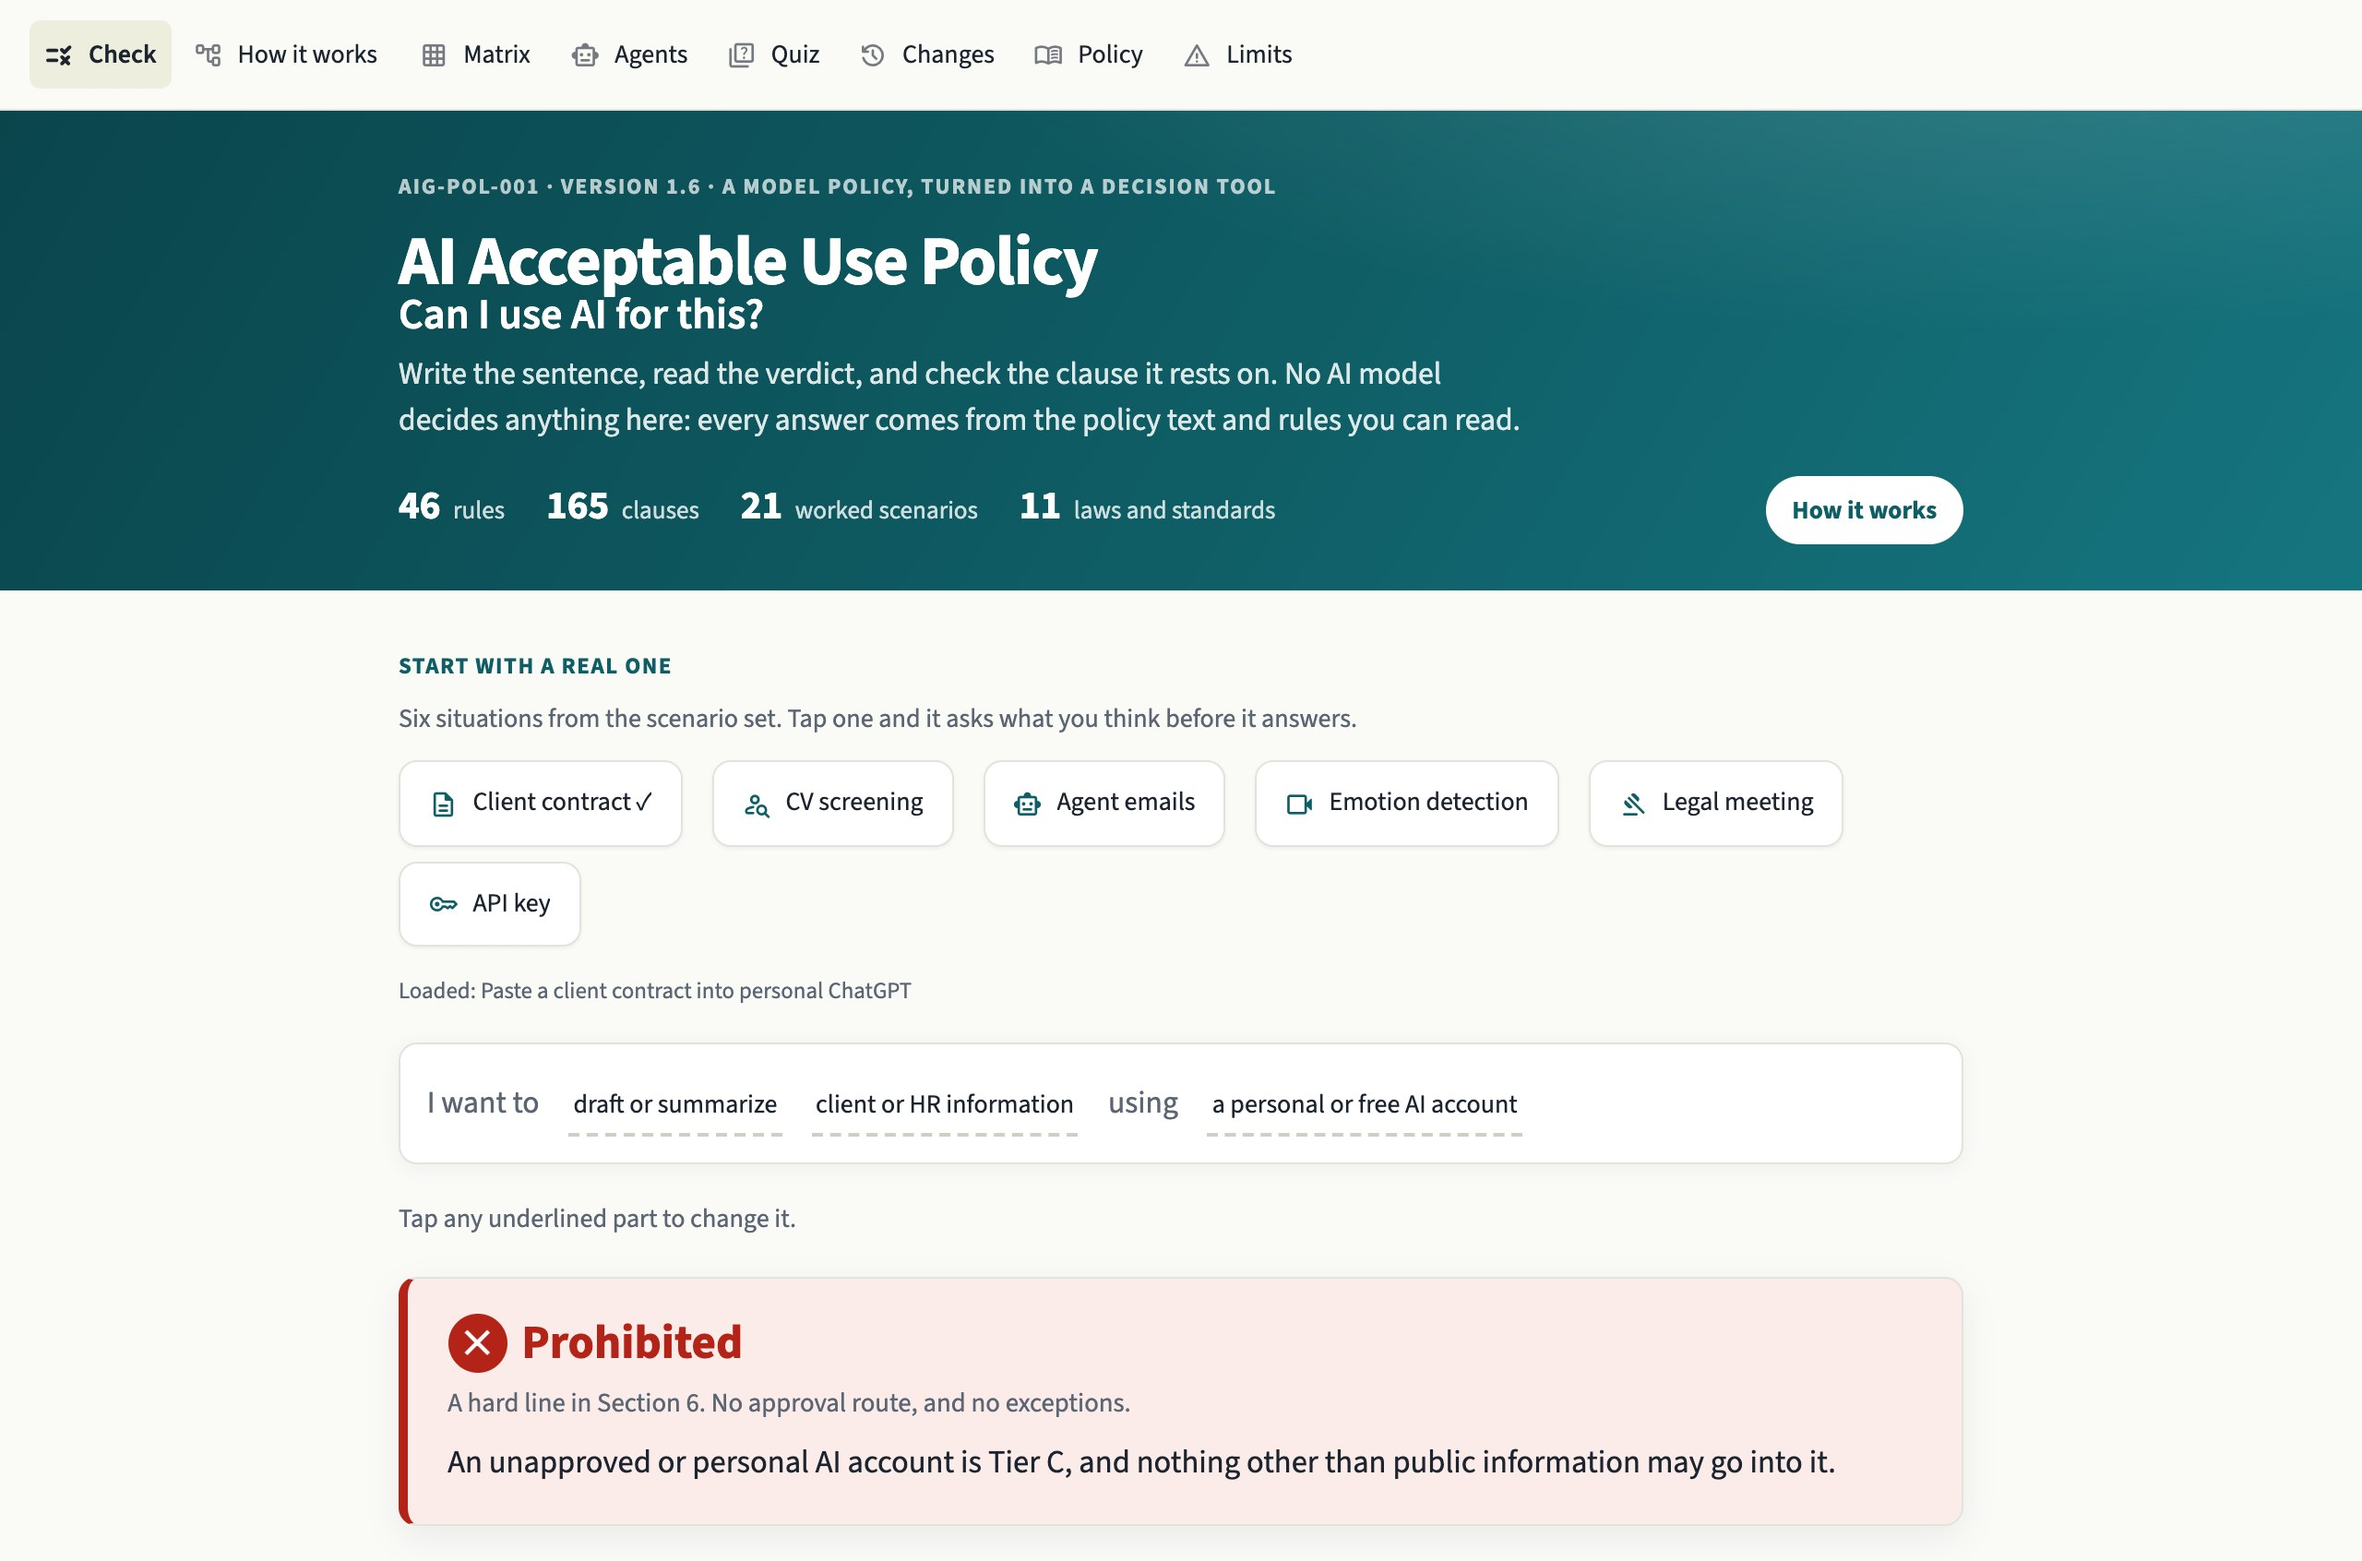
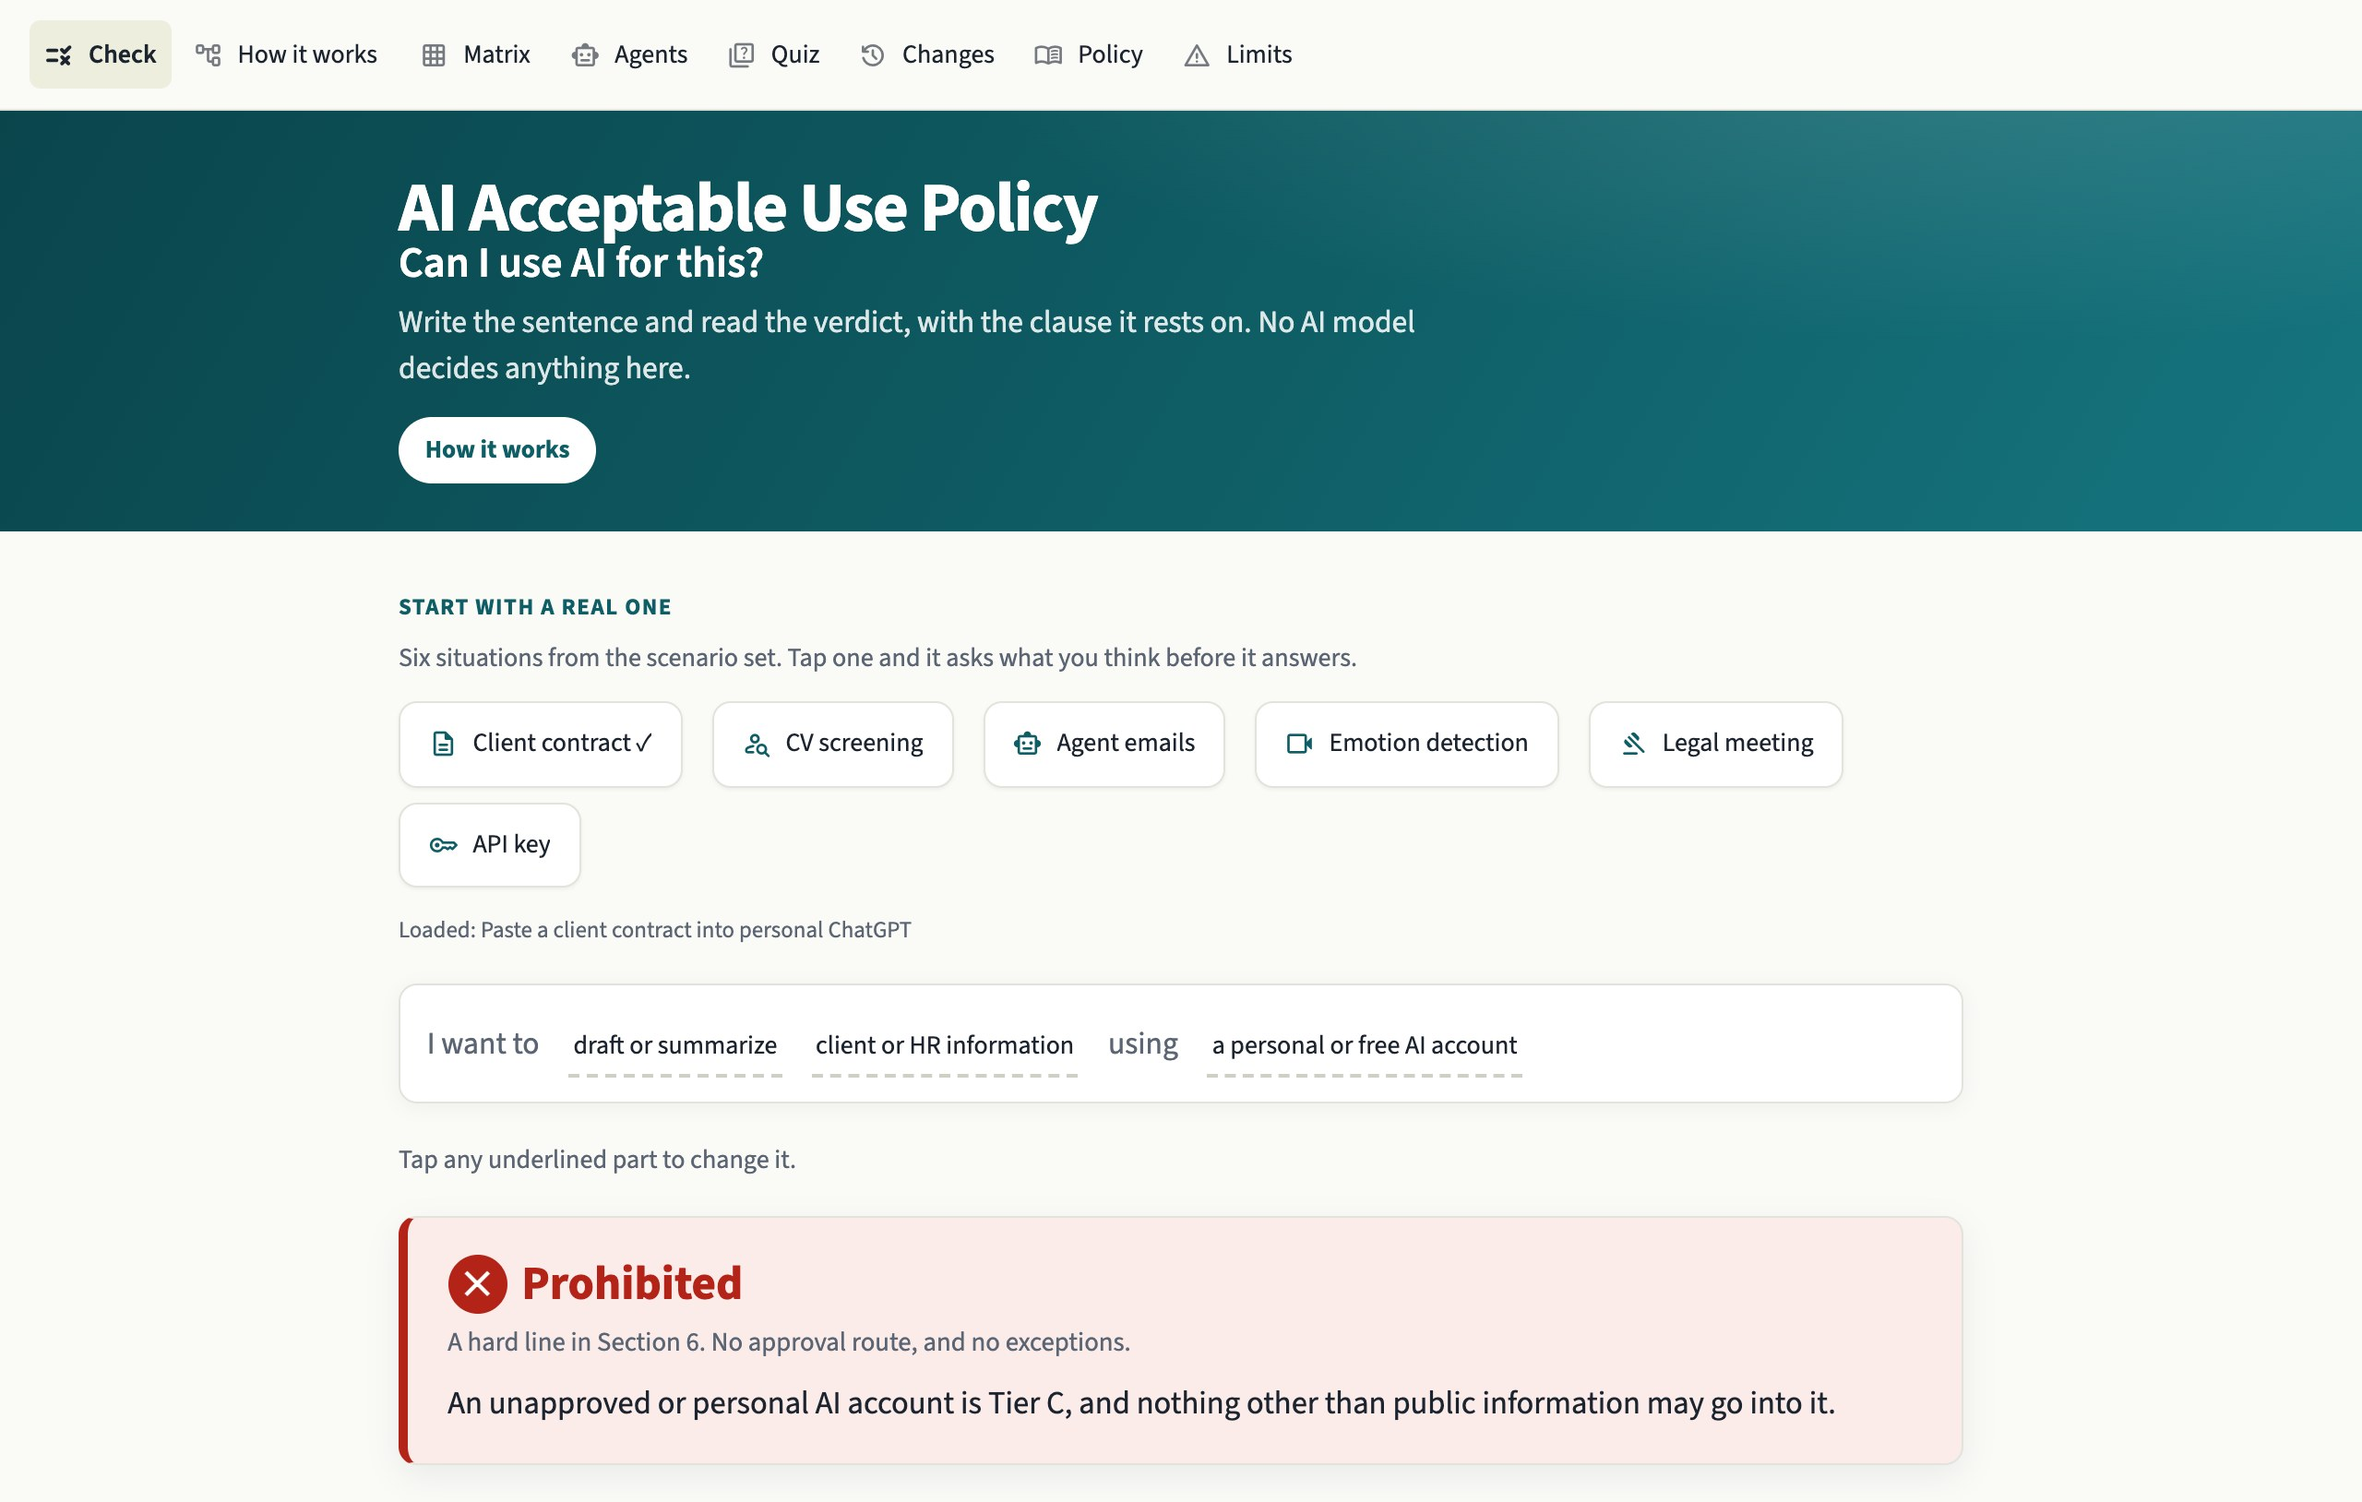
Trim the hero to the policy, the question and one sentence
The band still read as crowded: a document number and version line,
a strapline, a two-sentence lede and a row of four figures before the
link. Now it is the title, the question, one sentence and the How it
works button. The figures stay on How it works, where the README
already sends the reader for them.

A smoke test pins the band to that shape, and the first README
screenshot is regenerated.

diff --git a/app/styles/app.css b/app/styles/app.css
@@ -799,9 +799,9 @@ div[data-testid="stExpander"] details {
 
 /* The landing page used to open on a plain heading in a narrow column of
    off-white, which read as a form. The band says what kind of thing this is
-   before the first tap: the question, the promise, and three numbers that
-   make the promise checkable. It bleeds to the viewport edges while its
-   text stays on the column, so the page keeps one reading width. */
+   before the first tap: the policy, the question and one sentence of
+   promise. It bleeds to the viewport edges while its text stays on the
+   column, so the page keeps one reading width. */
 .st-key-cu_hero {
   width: 100vw;
   max-width: 100vw;
@@ -824,32 +824,17 @@ div[data-testid="stExpander"] details {
 .st-key-cu_hero [data-testid="stMarkdownContainer"] h1 a { color: inherit; }
 
 .cu-hero__lede {
-  max-width: 38rem;
-  margin: 0.3rem 0 1rem;
+  max-width: 36rem;
+  margin: 0.3rem 0 0.9rem;
   font-size: 1.05rem;
   line-height: 1.5;
   color: rgba(255, 255, 255, 0.86);
 }
 
-.cu-hero__figures {
-  display: flex;
-  flex-wrap: wrap;
-  align-items: baseline;
-  gap: 0.3rem 1.4rem;
-  font-size: 0.85rem;
-  color: rgba(255, 255, 255, 0.8);
-}
-
-.cu-hero__figures strong {
-  font-size: 1.35rem;
-  font-weight: 700;
-  color: #fff;
-  margin-right: 0.25rem;
-  font-variant-numeric: tabular-nums;
-}
+.cu-hero__more { margin: 0; }
 
 .cu-hero__link {
-  margin-left: auto;
+  display: inline-block;
   padding: 0.45rem 0.9rem;
   border-radius: 999px;
   background: #fff;
@@ -944,23 +929,11 @@ div[data-testid="stExpander"] details {
   .st-key-cu_hero { padding-top: 1.4rem; padding-bottom: 1.2rem; }
   .st-key-cu_hero [data-testid="stMarkdownContainer"] h1 { font-size: 1.75rem !important; }
   .cu-hero__lede { font-size: 0.95rem; }
-  .cu-hero__figures { gap: 0.2rem 1rem; }
-  .cu-hero__figures strong { font-size: 1.15rem; }
-  .cu-hero__link { margin-left: 0; margin-top: 0.4rem; }
   .cu-status { font-size: 1.3rem; }
   .cu-status__icon { width: 1.7rem; height: 1.7rem; font-size: 1rem; }
 }
 
-/* --- Hero: kicker and question ----------------------------------------- */
-
-.cu-hero__kicker {
-  margin: 0 0 0.2rem;
-  font-size: 0.75rem;
-  font-weight: 700;
-  letter-spacing: 0.08em;
-  text-transform: uppercase;
-  color: rgba(255, 255, 255, 0.7);
-}
+/* --- Hero: the question ------------------------------------------------ */
 
 .cu-hero__question {
   margin: 0.1rem 0 0.2rem;

diff --git a/app/views/1_check.py b/app/views/1_check.py
@@ -33,7 +33,6 @@ from app.components.inputs import (
     write_query_params,
 )
 from app.components.legend import render_data_class_key
-from app.components.method import figures
 from app.components.risk import option_styles
 from app.components.shell import escape, inject_styles
 from app.components.tiers import render_tier_strip
@@ -238,32 +237,20 @@ def _render_guess_result(verdict_status: Status) -> None:
 
 
 def _render_hero() -> None:
-    """The band at the top: the question, what kind of answer this gives, and
-    three numbers that say the answer is checkable.
+    """The band at the top: the policy, the question, and what kind of answer
+    this gives. One sentence and one link; the numbers live on How it works.
 
     The heading stays a markdown h1, so it is the page's heading and not a
-    picture of one. The numbers are read from the files, as on the
-    How-it-works page, so the band cannot outlive the project it describes.
+    picture of one.
     """
-    f = figures(VERSION)
     with st.container(key="cu_hero"):
-        st.html(
-            '<p class="cu-hero__kicker">AIG-POL-001 · version 1.6 · a model policy, '
-            "turned into a decision tool</p>"
-        )
         st.markdown("# AI Acceptable Use Policy")
         st.html(
             '<p class="cu-hero__question">Can I use AI for this?</p>'
-            '<p class="cu-hero__lede">Write the sentence, read the verdict, and check '
-            "the clause it rests on. No AI model decides anything here: every answer "
-            "comes from the policy text and rules you can read.</p>"
-            '<div class="cu-hero__figures">'
-            f"<span><strong>{f.rules}</strong> rules</span>"
-            f"<span><strong>{f.clauses}</strong> clauses</span>"
-            f"<span><strong>{f.scenarios}</strong> worked scenarios</span>"
-            f"<span><strong>{f.sources}</strong> laws and standards</span>"
-            '<a class="cu-hero__link" href="how" target="_self">How it works</a>'
-            "</div>"
+            '<p class="cu-hero__lede">Write the sentence and read the verdict, with the '
+            "clause it rests on. No AI model decides anything here.</p>"
+            '<p class="cu-hero__more"><a class="cu-hero__link" href="how" target="_self">'
+            "How it works</a></p>"
         )
 
 

diff --git a/tests/test_app_smoke.py b/tests/test_app_smoke.py
@@ -112,6 +112,17 @@ def test_the_policy_is_the_heading_and_the_question_sits_under_it():
     assert "Can I use AI for this?" in body(at)
 
 
+def test_the_hero_is_one_sentence_and_one_link():
+    """The band had a document number, a strapline and a row of figures;
+    the reader asked for it quiet. The numbers belong to How it works."""
+    at = run_app()
+    hero = next(h.value for h in at.html if "cu-hero__lede" in h.value)
+    assert 'href="how"' in hero
+    assert "AIG-POL-001" not in hero and "version 1.6" not in hero
+    assert "cu-hero__figures" not in hero and "<strong>" not in hero
+    assert hero.count("<p") == 3
+
+
 def test_the_evidence_sits_under_three_tabs():
     at = run_app()
     assert [tab.label for tab in at.tabs] == ["Why this answer", "What if", "Share"]
